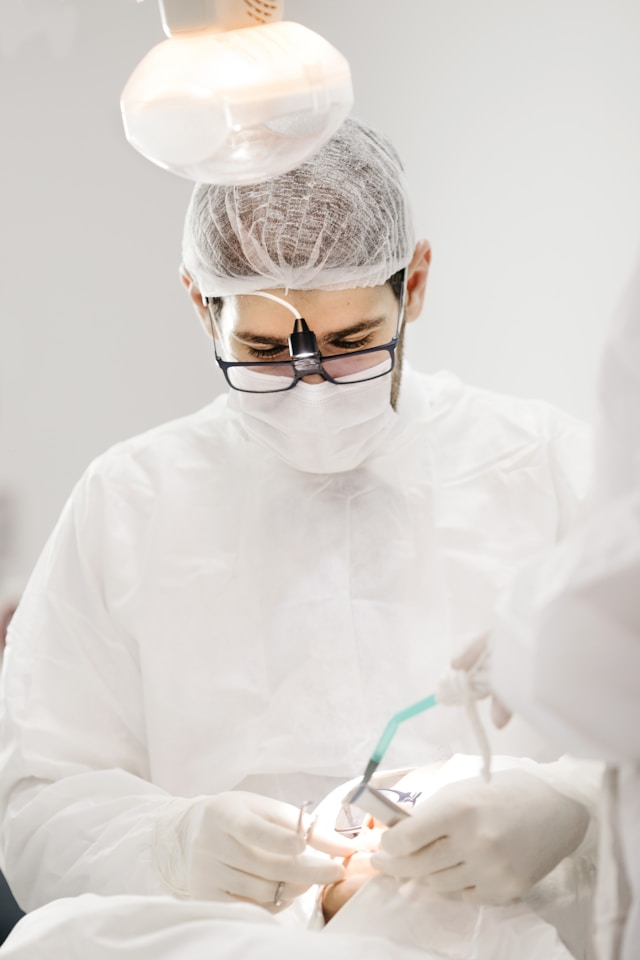
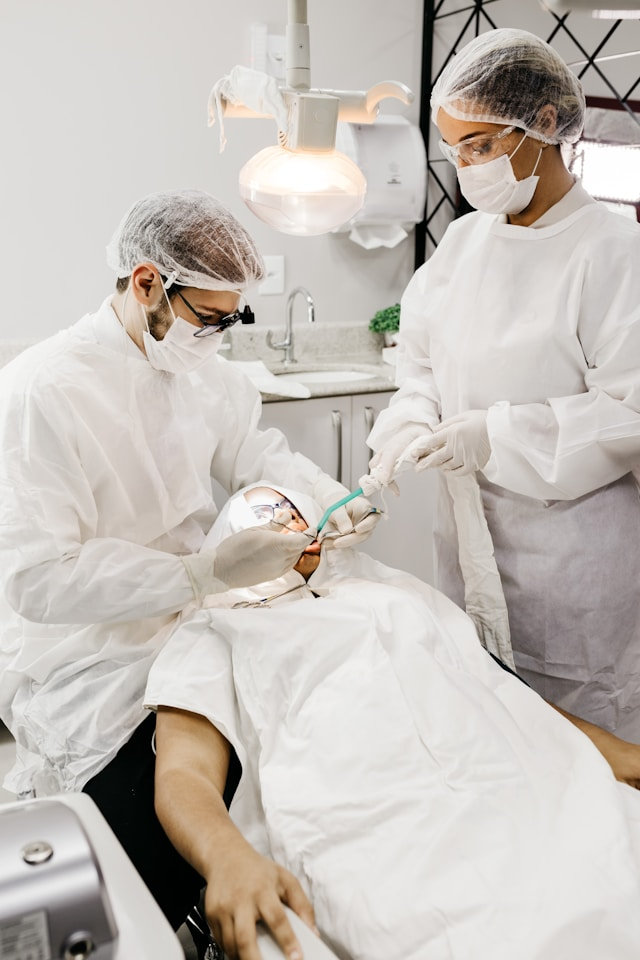
Làm phần Feature

diff --git a/index.html b/index.html
@@ -369,6 +369,39 @@
                     </div>
                 </div>
             </section>
+
+            <!-- Feature -->
+            <section class="feature">
+                <div class="container">
+                    <div class="feature__inner">
+                        <div class="feature__media">
+                            <figure class="feature__images">
+                                <img
+                                    src="./assets/img/feature-1.jpg"
+                                    alt=""
+                                    class="feature__img"
+                                />
+                                <img
+                                    src="./assets/img/feature-2.jpg"
+                                    alt=""
+                                    class="feature__img"
+                                />
+                            </figure>
+                        </div>
+                        <section class="feature__content">
+                            <h2 class="section-heading">
+                                Take back your smile with shine.
+                            </h2>
+                            <p class="section-desc">
+                                If you’re missing multiple teeth due to decay,
+                                injury, or the natural aging process, dentures
+                                might be the perfect solution.
+                            </p>
+                            <a href="#!" class="btn feature__cta">Learn More</a>
+                        </section>
+                    </div>
+                </div>
+            </section>
         </main>
     </body>
 </html>

diff --git a/assets/css/styles.css b/assets/css/styles.css
@@ -407,3 +407,43 @@ a {
     font-size: 16px;
     line-height: 1.75;
 }
+
+/* Feature */
+.feature {
+    margin-top: 85px;
+    padding: 85px 0;
+}
+
+.feature__inner {
+    display: flex;
+    column-gap: 130px;
+}
+
+.feature__media {
+    width: 48%;
+}
+
+.feature__images {
+    position: relative;
+    padding: 0 58px 121px 0;
+}
+
+.feature__img {
+    width: 512px;
+    height: 370px;
+    border-radius: 6px;
+    box-shadow: 0 14px 28px 0 rgba(0, 0, 0, 0.07);
+    object-fit: cover;
+}
+
+.feature__img:last-child {
+    position: absolute;
+    right: 0;
+    bottom: 0;
+    width: 332px;
+    height: 370px;
+}
+
+.feature__cta {
+    margin-top: 38px;
+}
